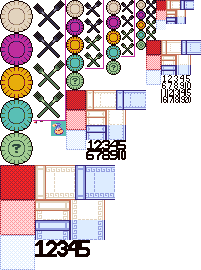
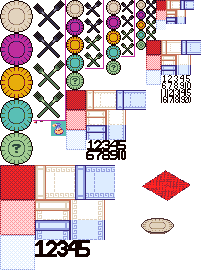
Beginning work on win state.

Changed region(s): [[0.7164, 0.6222, 0.9552, 0.7407], [0.6866, 0.8, 0.8657, 0.8889]]

diff --git a/Picnix/src/state/WinState.java b/Picnix/src/state/WinState.java
@@ -2,12 +2,15 @@ package state;
 
 import java.awt.Graphics;
 import java.awt.Graphics2D;
+import java.awt.event.KeyEvent;
 import java.awt.geom.AffineTransform;
 import java.awt.image.BufferedImage;
 
 import engine.Engine;
+import engine.Input;
 import picnix.Level;
 import picnix.World;
+import picnix.puzzle.Puzzle;
 import resource.bank.ImageBank;
 import resource.bank.Palette;
 import util.Animation;
@@ -15,91 +18,141 @@ import util.Timer;
 
 public class WinState extends State {
 
-	private static final int SKY_HEIGHT = 100;
 	private static final double HEIGHT_WIDTH_RATIO = 0.5;
+	private static final int TOPDOWN_HEIGHT = Engine.SCREEN_HEIGHT - 50;
+	private static final int CELL_SIZE = 35;
+	
+	private static final double CAM_SWITCH_TIME = 2000;
+	private static final double CAM_MIN_SCALE = 1.5;
+	private static final double CAM_MAX_SCALE = 5;
 	
 	private World world;
 	private Level level;
-	
+	private Puzzle puzzle;
+
 	private int rows, cols;
+	private int width, height;
 	
-	private BufferedImage background;
+	private double camX, camY;
+	private double camScale = 1;
 	
 	private Timer simTimer;
+	private Timer camTimer;
 	private boolean simulating;
 	private boolean topdown;
 	
 	private Animation smoothRot;
+
+	private static final int ROT = 0;
+	private static final int RAD = 1;
+	private double plates[][];
 	
 	public WinState(World world, Level level) {
 		this.world = world;
 		this.level = level;
+		puzzle = level.getPuzzles()[0];
 		rows = level.getPuzzles()[0].getRows();
 		cols = level.getPuzzles()[0].getColumns();
-		background = ImageBank.backgrounds[world.getId()];
+		width = cols * CELL_SIZE;
+		height = rows * CELL_SIZE;
 		simTimer = new Timer(false);
-		smoothRot = new Animation(0, 2 * Math.PI, 10000, Animation.LINEAR, Animation.CONTINUE, true);
+		camTimer = new Timer(false);
+		smoothRot = new Animation(0, 2 * Math.PI, 30000, Animation.EASE_OUT, Animation.NO_LOOP, true);
+		plates = new double[puzzle.getFilledCellsInSolution()][2];
+		int i = 0;
+		for (int r = 0; r < puzzle.getRows(); r++) {
+			for (int c = 0; c < puzzle.getColumns(); c++) {
+				if (puzzle.isFilledInSolution(r, c)) {
+					double px = c * CELL_SIZE - width / 2 + CELL_SIZE / 2;
+					double py = r * CELL_SIZE - height / 2 + CELL_SIZE / 2;
+					double angle = Math.atan(py / px);
+					if (px < 0) // reflect angle
+						angle = angle + Math.PI;
+					double dist = Math.sqrt(px * px + py * py);
+					plates[i][ROT] = angle;
+					plates[i][RAD] = dist;
+					i++;
+				}
+			}
+		}
 	}
 
 	@Override
 	public void focus(int status) {
+		startSimulation();
+	}
+	
+	private void startSimulation() {
 		simulating = true;
 		simTimer.resume();
+		camTimer.resume();
+		topdown = false;
+	}
+	
+	private void randomizeCamera() {
+		// small chance of going top down, if not already
+		if (!topdown && Math.random() > 0.85) {
+			camX = camY = 0;
+			camScale = TOPDOWN_HEIGHT / height;
+			topdown = true;
+		}
+		else {
+			// focus on any point in the blanket
+			camX = Math.random() * width - width / 2; 
+			camY = Math.random() * height - height / 2;
+			camScale = Math.random() * (CAM_MAX_SCALE - CAM_MIN_SCALE) + CAM_MIN_SCALE;
+			topdown = false;
+		}
 	}
 	
 	@Override
 	public void tick() {
 		if (simulating) {
-			
-		}
-	}
-	
-	@Override
-	public void render(Graphics g) {
-		renderField(g, 1, smoothRot.getValue());
-	}
-	
-	public void renderField(Graphics g, double fieldScale, double fieldRotation) {
-		// draw sky
-		g.setColor(Palette.SKY);
-		g.fillRect(0, 0, Engine.SCREEN_WIDTH, SKY_HEIGHT);
-		g.setColor(Palette.PERIWINKLE);
-		g.fillRect(0, SKY_HEIGHT, Engine.SCREEN_WIDTH, Engine.SCREEN_HEIGHT - SKY_HEIGHT);
-
-		final int size = 15;
-		// draw field
-		Graphics2D gg = (Graphics2D) g;
-		AffineTransform oldTrans = gg.getTransform();
-		// clip field below horizon
-		gg.setClip(0, SKY_HEIGHT, Engine.SCREEN_WIDTH, Engine.SCREEN_HEIGHT - SKY_HEIGHT);
-		// translate field to origin plus given offset before rotating
-		gg.translate(Engine.SCREEN_WIDTH / 2, Engine.SCREEN_HEIGHT / 2);
-		// scale based on islandScale argument and island's width-to-height ratio
-        gg.scale(fieldScale, fieldScale * HEIGHT_WIDTH_RATIO);
-        // rotate based on argument
-        gg.rotate(fieldRotation);
-        // translate back, so drawing will be at the desired position
-		gg.translate(-(size * rows) / 2, -(size * cols) / 2);
-		// draw blanket
-		for (int r = 0; r < rows; r++) {
-			for (int c = 0; c < cols; c++) {
-				g.drawImage(ImageBank.cells15[r % 2 + c % 2], c * size, r * size, null);
+			double factor = !topdown ? 1 : 2;
+			if (camTimer.elapsed() >= CAM_SWITCH_TIME * factor) {
+				camTimer.reset(true);
+				randomizeCamera();
 			}
 		}
+		else
+			super.tick();
+	}
+
+	@Override
+	public void render(Graphics g) {
+		// draw blanky
+		Graphics2D gg = (Graphics2D) g;
+		AffineTransform oldTrans = gg.getTransform();
+		// if topdown, width and height scale equally
+		double ratio = topdown ? 1 : HEIGHT_WIDTH_RATIO;
+		double camRot = smoothRot.getValue();
+		// translate field to origin plus given offset before rotating
+		gg.translate(Engine.SCREEN_WIDTH / 2 + camX, Engine.SCREEN_HEIGHT / 2 + camY);
+		gg.scale(camScale, camScale * ratio);
+        // rotate based on argument
+        gg.rotate(camRot);
+        // translate back, so drawing will be at the desired position
+		gg.translate(-width / 2, -height / 2);
+		// draw blanket
+		for (int r = 0; r < rows; r++)
+			for (int c = 0; c < cols; c++)
+				g.drawImage(ImageBank.cells35[r % 2 + c % 2],
+						c * CELL_SIZE, r * CELL_SIZE, null);
 		// revert graphics state
 		gg.setClip(null);
 		gg.setTransform(oldTrans);
 		// draw field entities
-		/*
-		for (int i = 0; i < trees.length; i++) {
-			double rad = trees[i][0] * islandScale;
-			double rot = trees[i][1];
-			int offx = ImageBank.tree.getWidth() / 2;
-			int offy = ImageBank.tree.getHeight();
-			int tx = (int) (-offx + islandOffsetX + Engine.SCREEN_WIDTH / 2 + Math.cos(-islandRotation + rot) * rad);
-			int ty = (int) (-offy + islandOffsetY + Engine.SCREEN_HEIGHT / 2 + Math.sin(-islandRotation + rot) * rad * HEIGHT_WIDTH_RATIO);
-			g.drawImage(ImageBank.tree, tx, ty, null);
-		} */
+		
+		BufferedImage plate = !topdown ? ImageBank.isoplate : ImageBank.plates35[0];
+		for (int i = 0; i < plates.length; i++) {
+			double rot = plates[i][ROT];
+			double rad = plates[i][RAD] * camScale;
+			int w = (int) (camScale * plate.getWidth());
+			int h = (int) (camScale * plate.getHeight());
+			int tx = (int) (-(w / 2) + camX + Engine.SCREEN_WIDTH / 2 + Math.cos(camRot + rot) * rad);
+			int ty = (int) (-(h / 2) + camY + Engine.SCREEN_HEIGHT / 2 + Math.sin(camRot + rot) * rad * ratio);
+			g.drawImage(plate, tx, ty, w, h, null);
+		}
 	}
-	
+
 }

diff --git a/Picnix/src/resource/bank/ImageBank.java b/Picnix/src/resource/bank/ImageBank.java
@@ -43,6 +43,7 @@ public class ImageBank {
 	public static BufferedImage[] normallevelbutton;
 	public static BufferedImage[] layeredlevelbutton;
 	public static BufferedImage hiscorebar;
+	public static BufferedImage[] smallblacknums;
 	public static BufferedImage newlevelalert;
 	public static BufferedImage hiddenpreview;
 	// --
@@ -97,6 +98,7 @@ public class ImageBank {
 	public static BufferedImage[] numsbig;
 	public static BufferedImage[] numsmed;
 	public static BufferedImage[] numstiny;
+	public static BufferedImage isoplate;
 	
 	public static void loadGlobalResources() throws IOException {
 		// singles
@@ -133,6 +135,7 @@ public class ImageBank {
 		normallevelbutton = loadMany(uiSheet, 267, 169, 48, 48, 2, 1);
 		layeredlevelbutton = loadMany(uiSheet, 267, 217, 48, 48, 2, 1);
 		hiscorebar = loadOne(uiSheet, 312, 153, 41, 7);
+		smallblacknums = loadMany(uiSheet, 287, 0, 4, 5, 5, 2);
 		newlevelalert = loadOne(uiSheet, 363, 169, 39, 39);
 		hiddenpreview = loadOne(uiSheet, 363, 208, 39, 31);
 		//
@@ -186,6 +189,7 @@ public class ImageBank {
 		numsbig = loadMany(blanketSheet, 35, 240, 11, 17, 5, 1);
 		numsmed = loadMany(blanketSheet, 86, 140, 8, 10, 5, 2);
 		numstiny = loadMany(blanketSheet, 161, 75, 6, 7, 5, 4);
+		isoplate = loadOne(blanketSheet, 141, 218, 33, 16);
 	}
 	
 	public static void loadWorldResources(int worldId) throws IOException {

diff --git a/Picnix/src/state/element/LevelButton.java b/Picnix/src/state/element/LevelButton.java
@@ -32,8 +32,16 @@ public class LevelButton extends Button {
 		int yp = getDisplayY();
 		int wid = levState.getWorld().getId();
 		if (UserData.isPuzzleCompleted(wid, id)) {
-			int score = UserData.getPuzzleScore(wid, id);
 			g.drawImage(ImageBank.hiscorebar, xp + 3, yp + 37, null);
+			int score = UserData.getPuzzleScore(wid, id);
+			final int startX = 13, startY = 38;
+			final int pWidth = 29, cWidth = 5;
+			final int max = 999_999;
+			String count = Integer.toString(Math.min(max, score));
+			int xOff = startX + (pWidth - cWidth * count.length() + 1) / 2;
+			for (int c = 0; c < count.length(); c++)
+				g.drawImage(ImageBank.smallblacknums[count.charAt(c) - '0'],
+						xp + c * cWidth + xOff, yp + startY, null);
 		}
 		else {
 			g.drawImage(ImageBank.newlevelalert, xp + 4, yp + 4, null);

diff --git a/Picnix/src/picnix/puzzle/Puzzle.java b/Picnix/src/picnix/puzzle/Puzzle.java
@@ -246,6 +246,10 @@ public class Puzzle {
 		return marks[row][col];
 	}
 	
+	public boolean isFilledInSolution(int row, int col) {
+		return solution[row][col];
+	}
+	
 	public boolean isSolved() {
 		if (solvedStateDirty)
 			updateSolved();

diff --git a/Picnix/src/picnix/puzzle/Blanket.java b/Picnix/src/picnix/puzzle/Blanket.java
@@ -1,7 +1,6 @@
 package picnix.puzzle;
 
 import java.awt.AlphaComposite;
-import java.awt.Color;
 import java.awt.Composite;
 import java.awt.Graphics;
 import java.awt.Graphics2D;

diff --git a/Picnix/src/module-info.java b/Picnix/src/module-info.java
@@ -1,0 +1,3 @@
+module Picnix {
+	requires java.desktop;
+}
